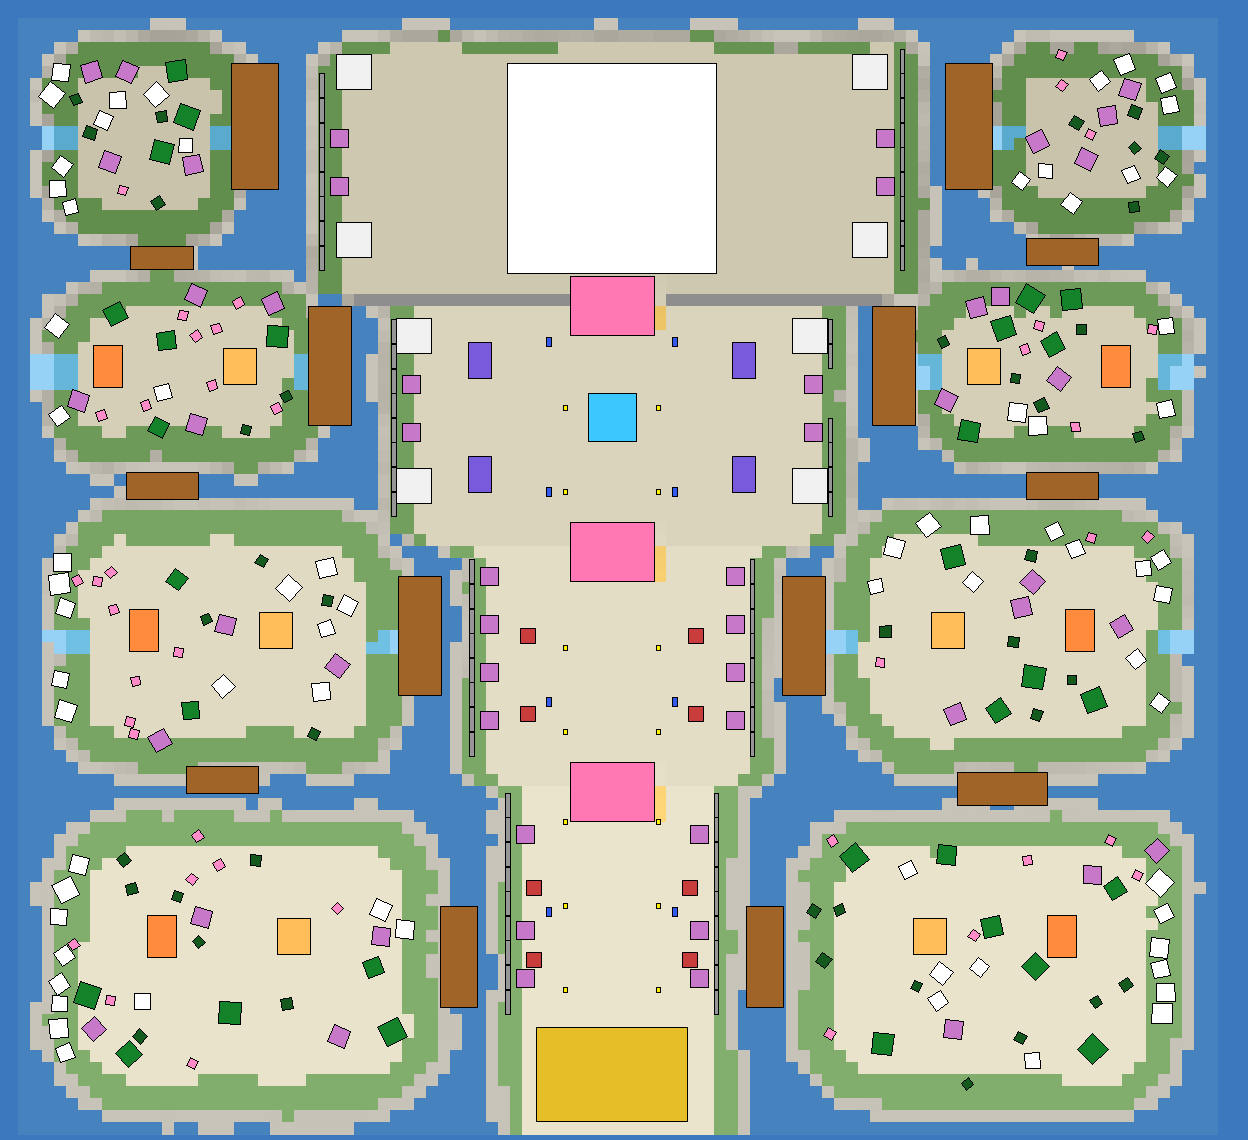
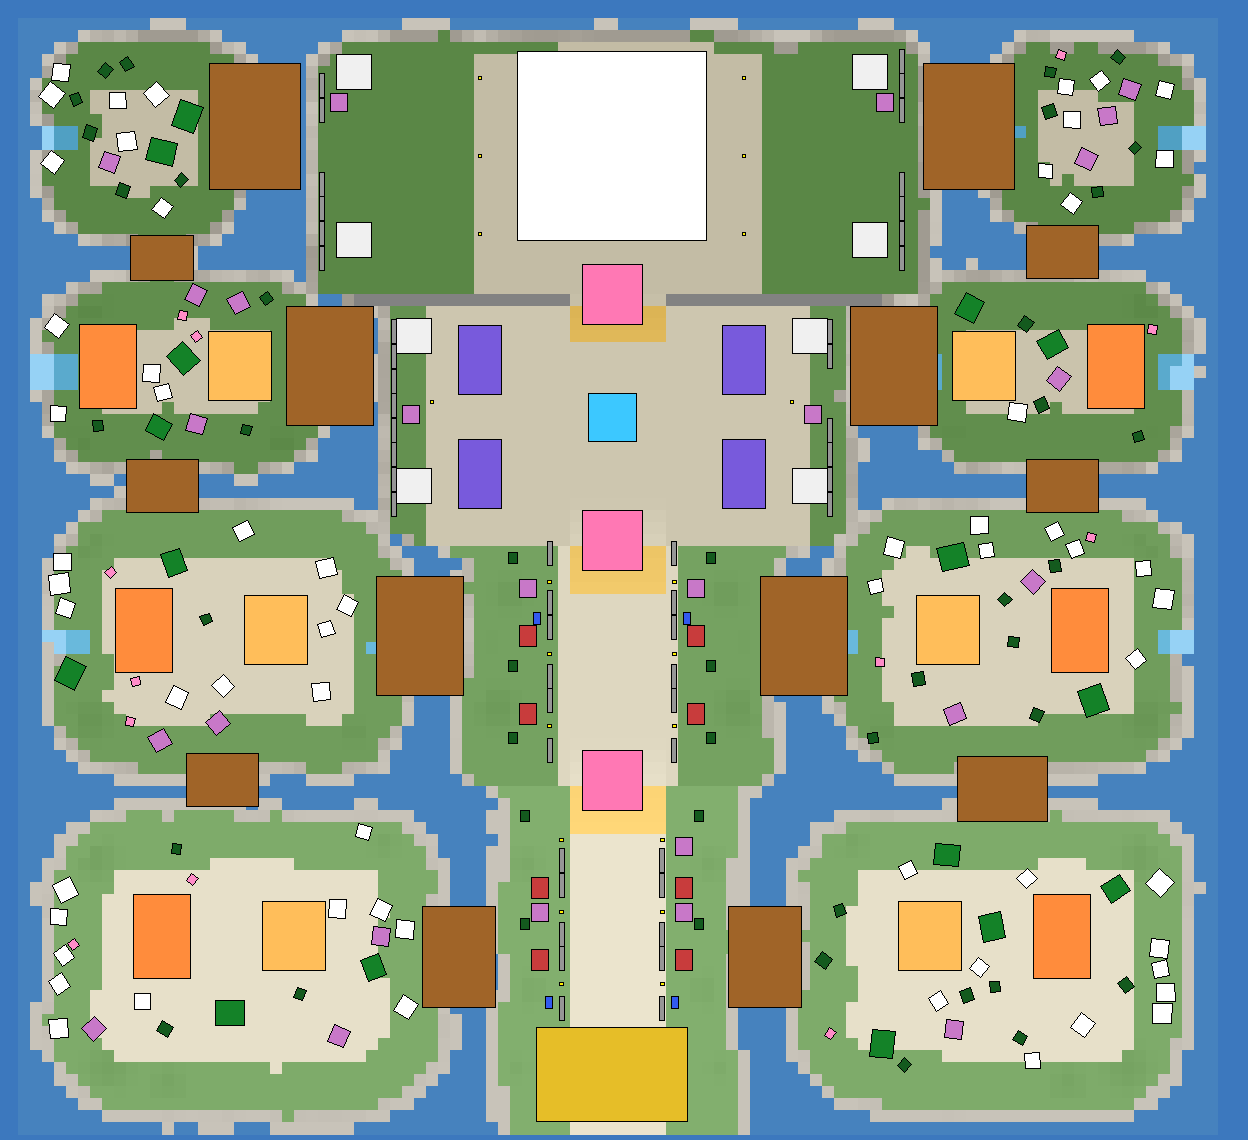
빛 마을 계단 방향 수정·정원/난간/지형 기복 사진 세트 vs_concept4

Changed region(s): [[0.0312, 0.0307, 0.9688, 1.0]]

diff --git a/tools/halo_layout.py b/tools/halo_layout.py
@@ -189,7 +189,7 @@ fnt = put("Fountain", 0, -565, 0, 1.0)
 # stairs models on the three axis ramps (the collision is the terrain ramp; the model is only the look)
 # stairs model rise = 8.2 studs over a 20 deep run at scale 1 (measured on the LOD mesh): stretch it to the ramp (28 wide, 22 long, rise of that tier)
 for zb, yb, rise in ((-444, 0.2, 8.8), (-524, 9.0, 11.0), (-606, 20.0, 13.0)):  # ramps are 30 long now (halo_terrain RampLen)
-    P.append(dict(kind="Stairs", x=0, z=zb, y=yb, yaw=SOUTH, s=1.0, sv=[1.4, round(rise / 8.2, 3), 1.5], ramp=True))
+    P.append(dict(kind="Stairs", x=0, z=zb, y=yb, yaw=0.0, s=1.0, sv=[1.4, round(rise / 8.2, 3), 1.5], ramp=True))
 
 # hero statues (face the road axis): tier 1 pairs, one pair on tier 2
 for z in (-384, -408, -466, -492):
